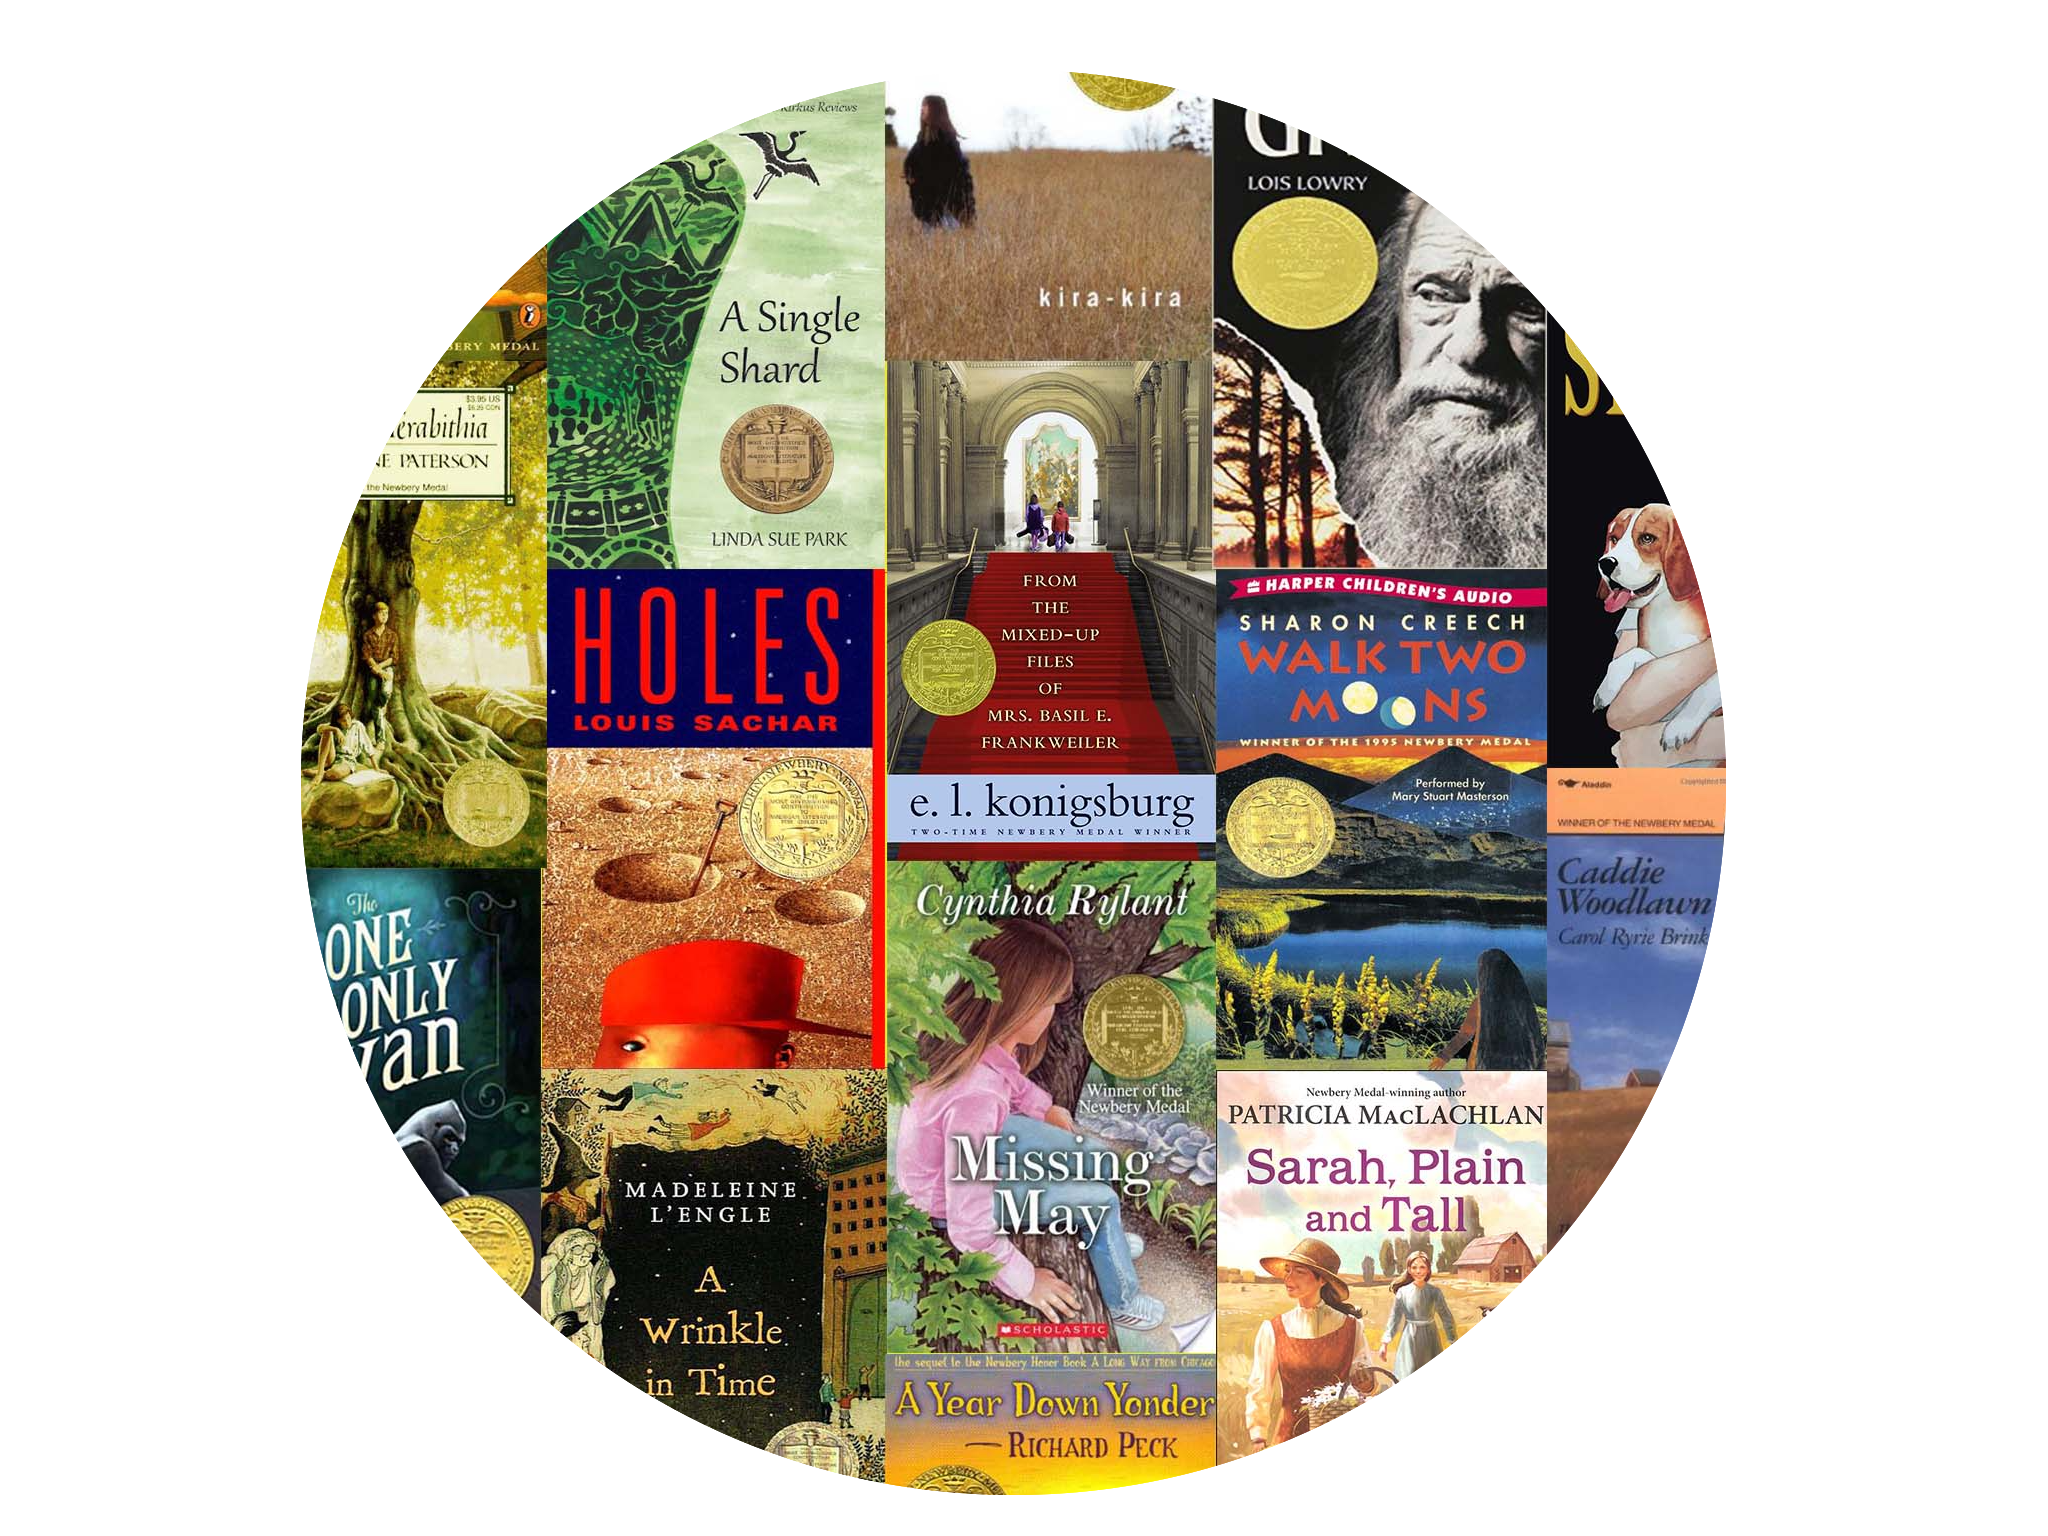
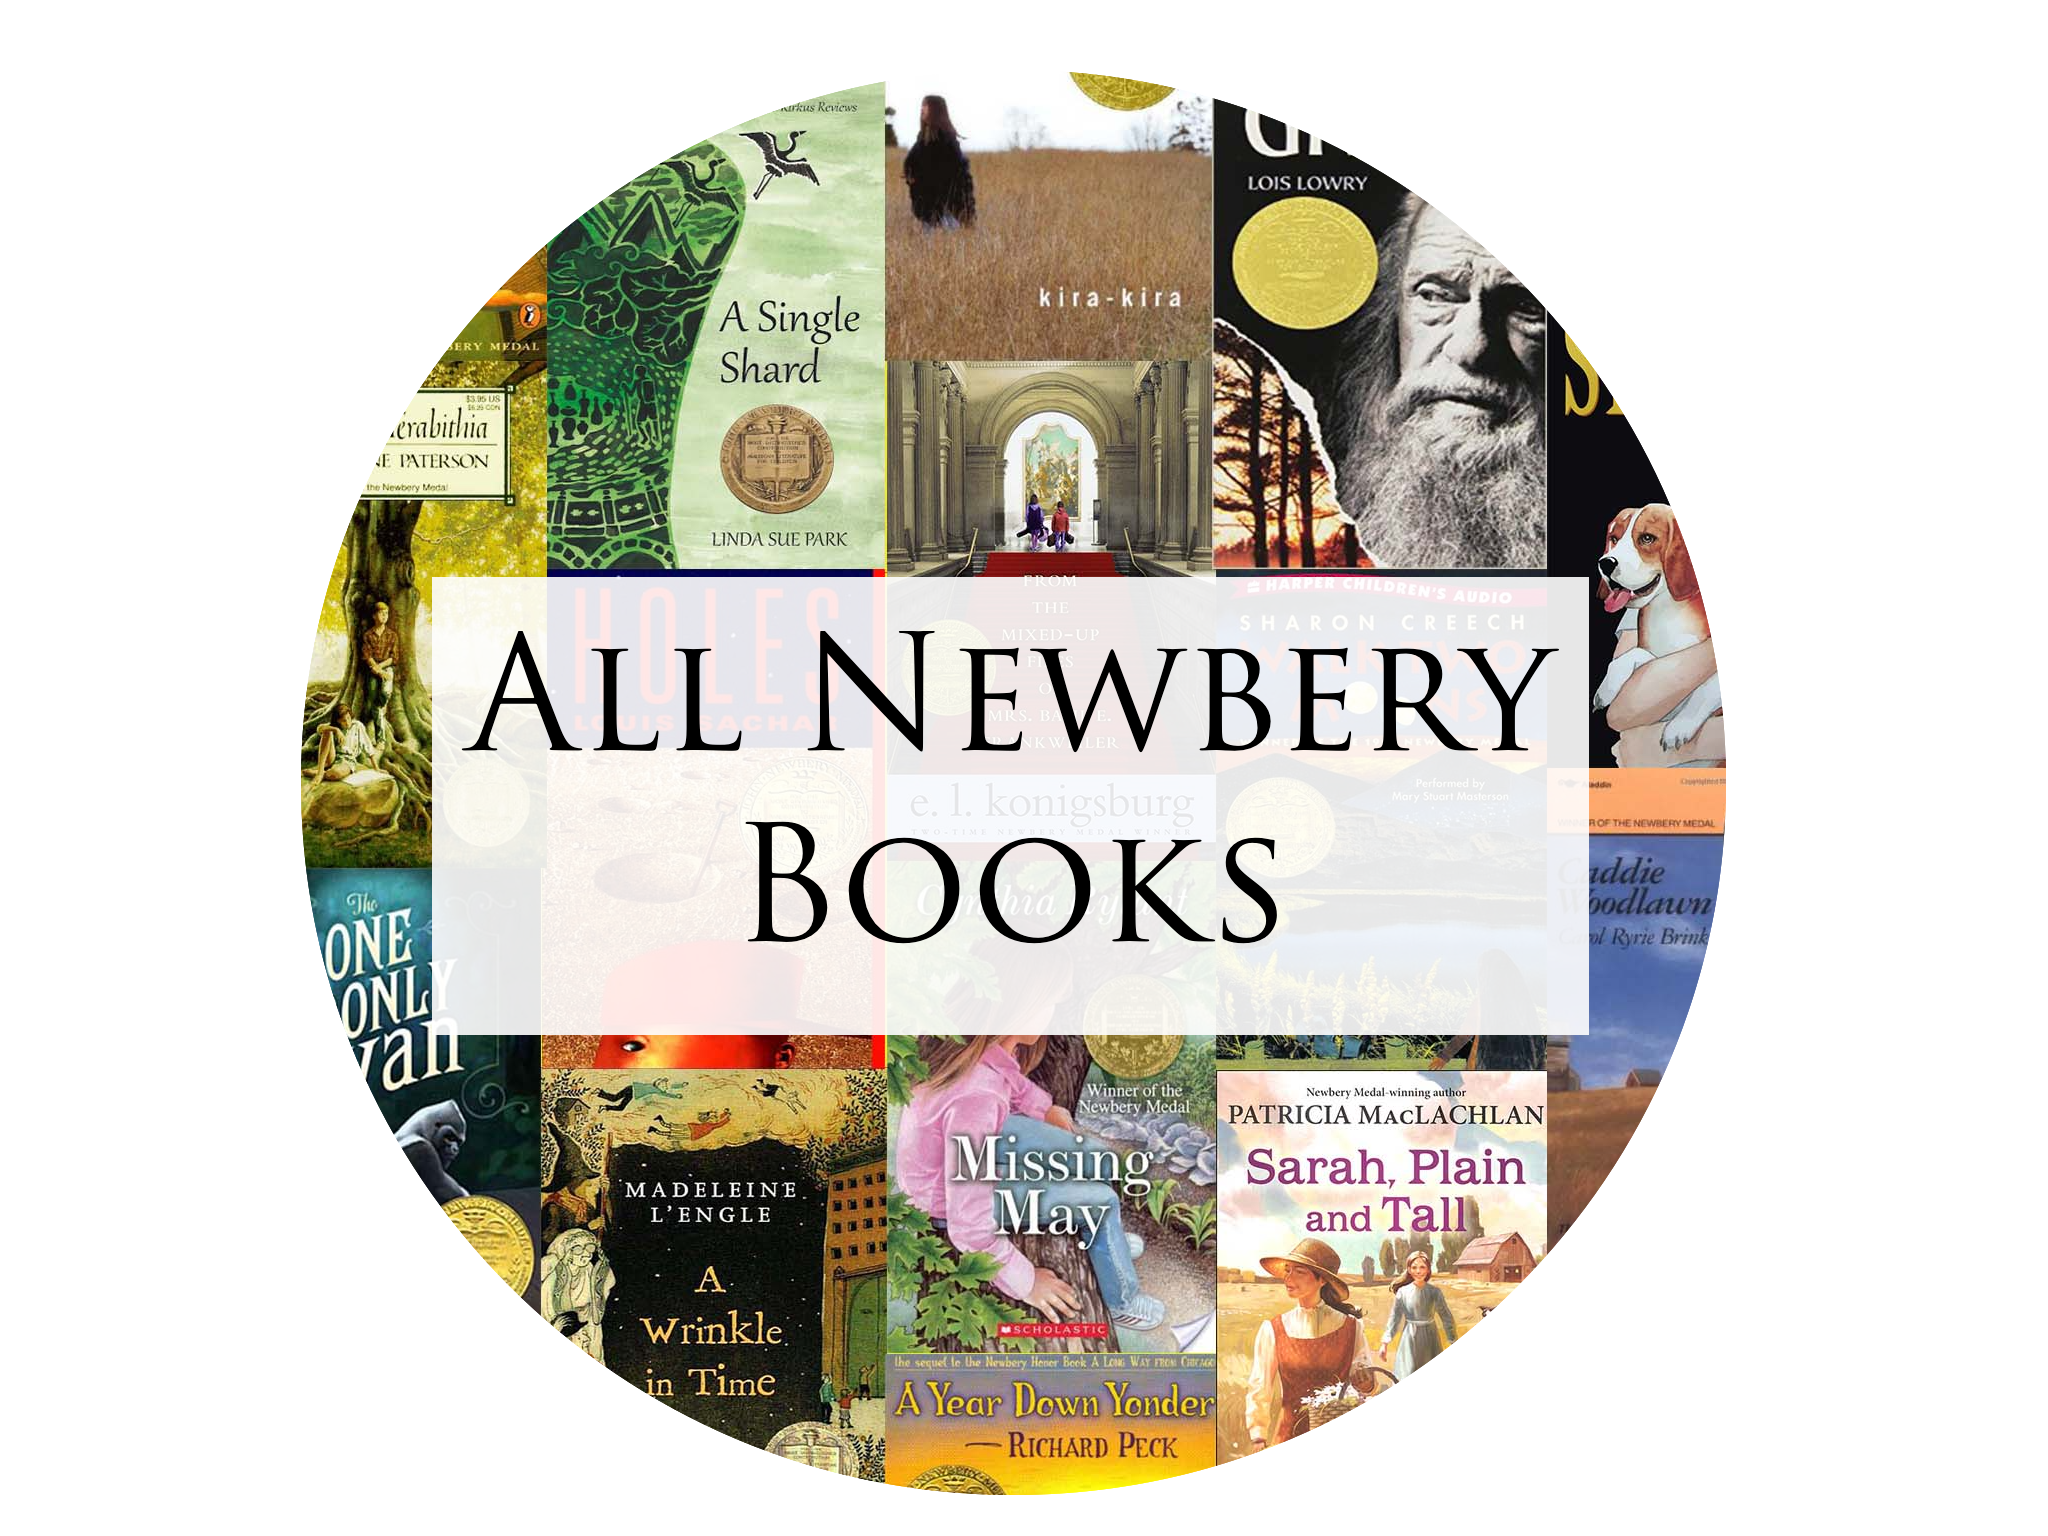
image delete and add label

Changed region(s): [[0.1875, 0.375, 0.7812, 0.6875]]

diff --git a/index.html b/index.html
@@ -157,32 +157,6 @@ background: -webkit-linear-gradient(top, #999999 0%,#454545 40%);
 	z-index: 5;	
 }
 
-/*semi1*/
-#semi1 {
-		width: 400px;
-		top: 400px;
-		left: -320px;
-		position: relative;
-		left: 1px;
-		opacity:0;
-		-webkit-transition:  top 2s ease, opacity 1s ease;
-		-moz-transition: top 2s ease, opacity 1s ease;
-		-o-transition: top 2s ease, opacity 1s ease;
-		transition: top 2s ease, opacity 1s ease;
-		z-index: -2
-	}
-#semi1:hover {
-		position: relative;
-		left: 0px;
-		opacity:0;
-		-webkit-transition:  top 2s ease, opacity 1s ease;
-		-moz-transition: top 2s ease, opacity 1s ease;
-		-o-transition: top 2s ease, opacity 1s ease;
-		transition: top 2s ease, opacity 1s ease;
-		z-index: -2
-	}
-/*semi1 end*/
-
 #circle_2 {
 	width: 400px;
 	height: 400px;
@@ -226,7 +200,7 @@ background: -webkit-linear-gradient(top, #999999 0%,#454545 40%);
 </STYLE>
 </HEAD>
 
-<BODY bgcolor= #000000 link='white' vlink='white' alink='white'>FEF9E7
+<BODY bgcolor= #FEF9E7 link='white' vlink='white' alink='white'>
 <DIV id='menubg'></DIV>
 <IMG src= 'Images/New Newbery Logo.png' id= 'logo'>
 <H3>
@@ -264,9 +238,8 @@ background: -webkit-linear-gradient(top, #999999 0%,#454545 40%);
 <DIV id=circle_4></DIV>
 
 <DIV id='FB'><A HREF='Featured Books.html' target=_self><IMG SRC= 'Images/circle.png' width= '350'></A></DIV>
-<DIV id= 'semi1'><A A HREF='Featured Books.html' target=_self><IMG SRC= 'Images/semi1.png' width= '350'></A></DIV>
 
-<DIV id='Home'><A HREF='About Us.html' target=_self><IMG SRC= 'Images/New Newbery Logo.png' width= '350'></A></DIV>
+<DIV id='Home'><A HREF='About Us.html' target=_self><IMG SRC= 'Images/New Newbery Logo copy.png' width= '350'></A></DIV>
 
 <DIV id='AllNewberyBook'><A HREF='All Newbery Books.html' target=_self><IMG SRC= 'Images/all_newbery_books.png' width= '500'></A></DIV>
 
